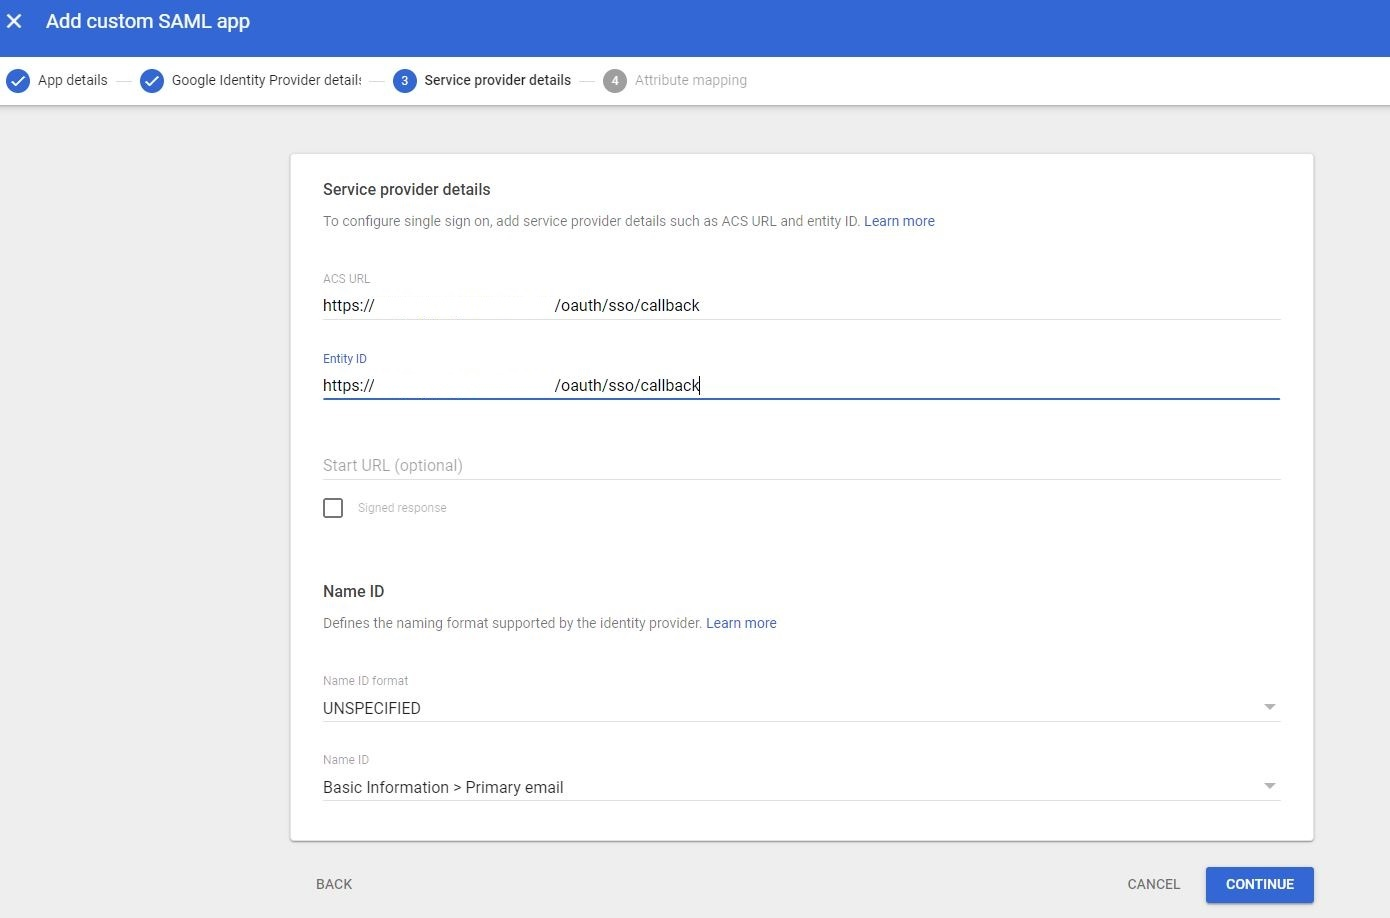
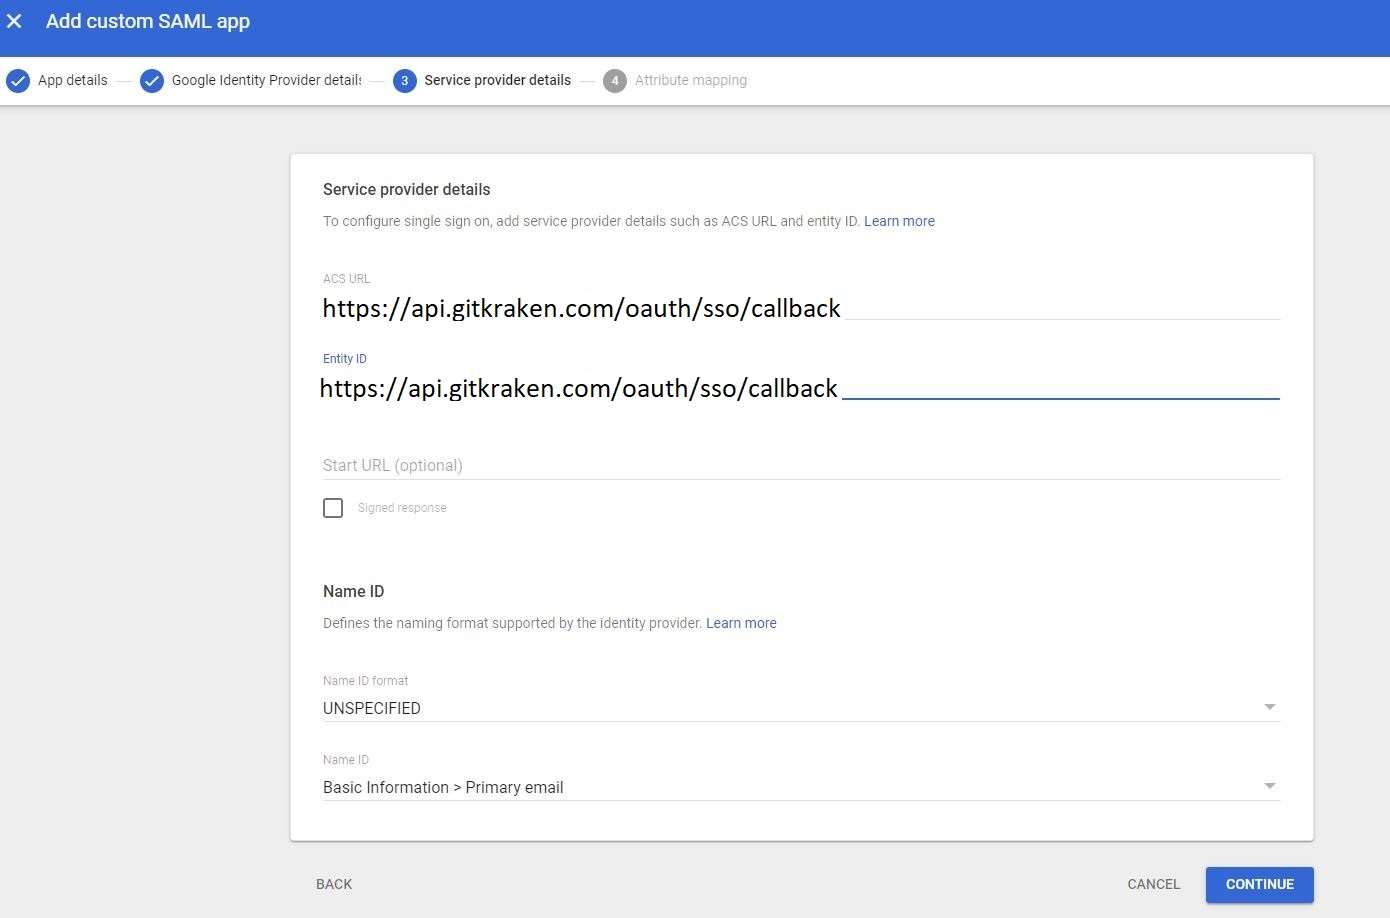
Updating G Suite callback URL and image
also changing "" to instead be *italics*

Changed region(s): [[0.2165, 0.305, 0.6187, 0.366], [0.2165, 0.3965, 0.5878, 0.4575]]

diff --git a/gitkraken-client/single-sign-on.md b/gitkraken-client/single-sign-on.md
@@ -178,43 +178,43 @@ How to Create SAML Application in G Suite:
 
 1. Go to https://admin.google.com/ 
 
-2. Click on “Apps” and then “Web and mobile apps”
+2. Click on *Apps* and then *Web and mobile apps*.
 
 <img src="/wp-content/uploads/sso-example-idp-1.jpg" class="img-bordered img-responsive center">
 
-3. Click on “Add app” 
+3. Click on *Add app*. 
 
 <img src="/wp-content/uploads/sso-example-idp-2.jpg" class="img-bordered img-responsive center">
 
-4. Click “Add custom SAML app”
+4. Click *Add custom SAML app*.
 
 <img src="/wp-content/uploads/sso-example-idp-3.jpg" class="img-bordered img-responsive center">
 
-5. Type in your app name
+5. Type in your app name (such as GitKraken SSO).
 
 <img src="/wp-content/uploads/sso-example-idp-4.jpg" class="img-bordered img-responsive center">
 
-6. Copy your “SSO URL” and “Certificate”
+6. Copy your *SSO URL* and *Certificate*.
 
 <img src="/wp-content/uploads/sso-example-idp-5.jpg" class="img-bordered img-responsive center">
 
-7. Type in your “https://baseURL/oauth/sso/callback” for “ACS URL” and “Entity ID”
+7. Type in your `https://api.gitkraken.com/oauth/sso/callback` for *ACS URL* and *Entity ID*.
 
 <img src="/wp-content/uploads/sso-example-idp-6.jpg" class="img-bordered img-responsive center">
 
-8. Add desired attributes and click on “Finish”
+8. Add desired attributes and click on *Finish*.
 
 <img src="/wp-content/uploads/sso-example-idp-7.jpg" class="img-bordered img-responsive center">
 
-9. Click on “TEST SAML LOGIN”
+9. Click on *TEST SAML LOGIN*.
 
 <img src="/wp-content/uploads/sso-example-idp-8.jpg" class="img-bordered img-responsive center">
 
-10. Click on “ALLOW ACCESS”
+10. Click on *ALLOW ACCESS*.
 
 <img src="/wp-content/uploads/sso-example-idp-9.jpg" class="img-bordered img-responsive center">
 
-11. Select “ON for everyone” and save 
+11. Select *ON for everyone* and save.
 
 <img src="/wp-content/uploads/sso-example-idp-10.jpg" class="img-bordered img-responsive center">
 
@@ -235,15 +235,15 @@ How to Create SAML Application in Azure Active Directory:
 
 <img src="/wp-content/uploads/sso-azure-2.png" class="img-bordered img-responsive center">
 
-6. Select "Create your own application". 
+6. Select *Create your own application*. 
 
 <img src="/wp-content/uploads/sso-azure-3.png" class="img-bordered img-responsive center">
 
-7. Give your application name (you can use "GitKraken SSO" or whatever you prefer) and select "Integrate any other application you don't find in the gallery (Non-gallery)".
+7. Give your application name (such as "GitKraken SSO") and select "Integrate any other application you don't find in the gallery (Non-gallery)".
 
 <img src="/wp-content/uploads/sso-azure-4.png" class="img-bordered img-responsive center">
 
-8. Select Single sign-onfrom the left sidebar and then choose “SAML”.
+8. Select Single sign-onfrom the left sidebar and then choose *SAML*.
 
 <img src="/wp-content/uploads/sso-azure-5.png" class="img-bordered img-responsive center">
 
@@ -267,7 +267,7 @@ How to Create SAML Application in Okta:
 <img src="/wp-content/uploads/sso-otka-1.png" class="img-bordered img-responsive center">
 
 4. Click on Add Application.  
-5. Select "Create New App". 
+5. Select *Create New App*. 
 
 <img src="/wp-content/uploads/sso-otka-2.png" class="img-bordered img-responsive center">
 
